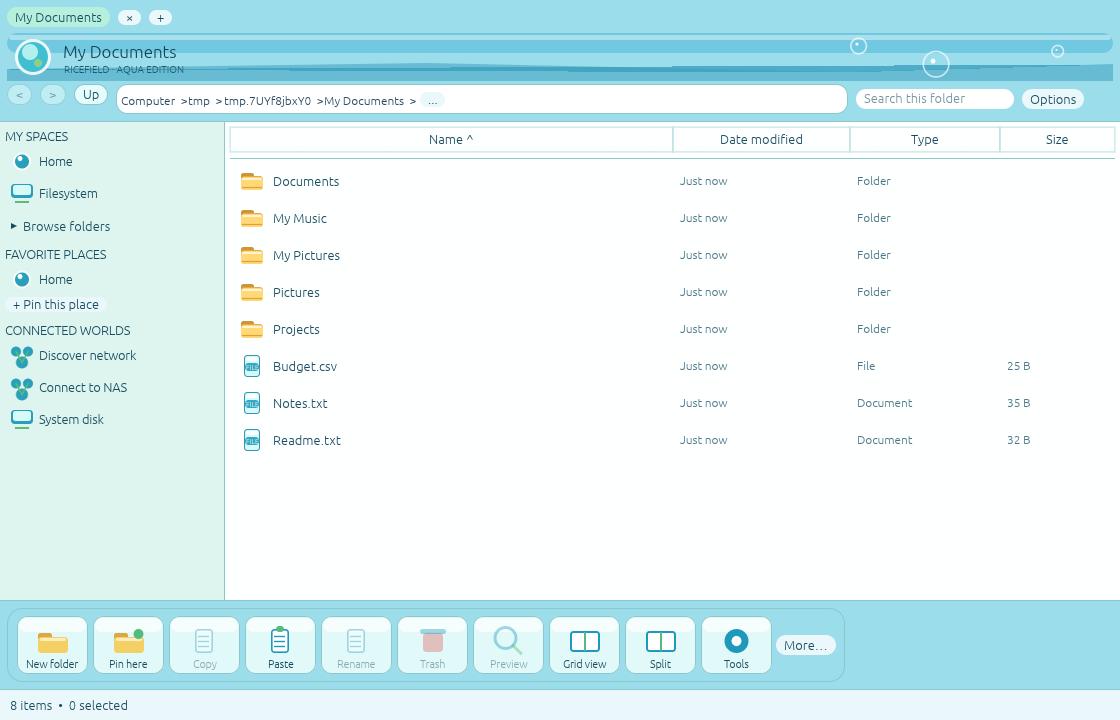
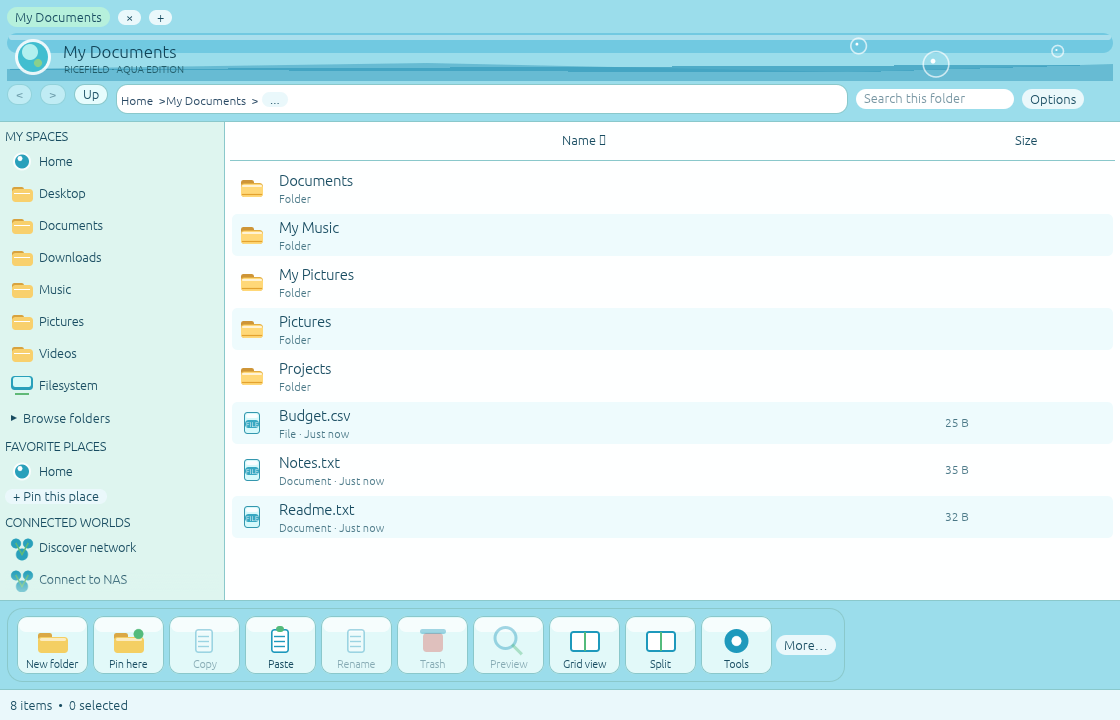
Refresh seven native rice screenshots after row styling (#103)

diff --git a/docs/screenshots/README.md b/docs/screenshots/README.md
@@ -1,6 +1,6 @@
 # RiceField screenshots
 
-These are unedited screenshots captured from the **running Rust/egui application** in GitHub Actions' Xvfb GUI smoke test. The fixtures contain disposable example files; the images are not renders or concept mockups. They verify rendering, not usability on a physical Linux desktop.
+These are unedited screenshots captured from the **running Rust/egui application** in GitHub Actions' Xvfb GUI smoke test. The fixtures contain disposable example files; the images are not renders or concept mockups. They verify rendering, not usability on a physical Linux desktop. The seven main views below include the post-network-list and distinct-file-row styling from the successful [GUI smoke run #42360627410](https://github.com/CopyPasteUser/Ricefield/actions/runs/42360627410); supplemental views were captured earlier and are kept for coverage until refreshed.
 
 ## Windows 98 · Classic Explorer
 
@@ -66,7 +66,9 @@ compact and narrow windows wrap to a smaller command set with a More menu.
 
 Original vector icons, a sky-and-water masthead and a responsive bottom dock;
 no downloaded or proprietary operating-system assets. File actions remain
-shared and network tabs remain read-only.
+shared. Network tabs support browsing and downloads, plus a separately gated
+WebDAV-only single-file upload; other protocols are intentionally read-only
+until their collision-safe writes are verified.
 
 ## ChromeOS · Files rice
 
